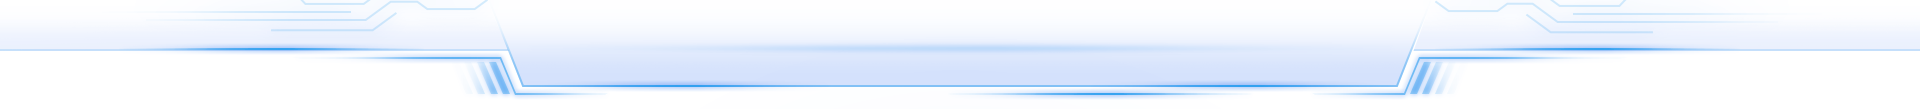
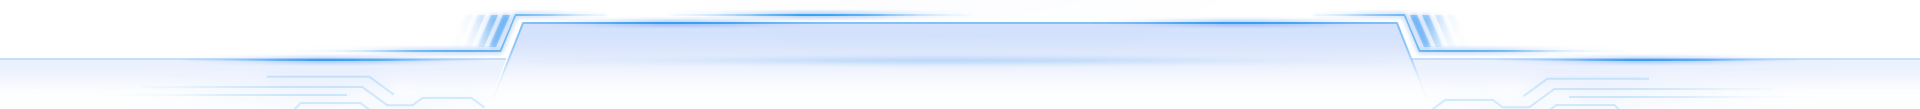
添加地球自转控件

diff --git a/src/components/Footer/index.vue b/src/components/Footer/index.vue
@@ -1,10 +1,25 @@
 <template>
-  <footer class="footer"></footer>
+  <footer class="footer">
+    <div class="btn-groups">
+      <div class="item">
+        <button class="toggle-btn" @click="handleRotation">
+          <i class="iconfont icon-fuwudiqiu"></i>
+        </button>
+        <p>{{ mark }}</p>
+      </div>
+    </div>
+  </footer>
 </template>
 
-<script setup></script>
+<script setup>
+import useRotation from './hooks/useRotation'
+
+const { mark, handleRotation } = useRotation()
+</script>
 
 <style>
+@import 'https://at.alicdn.com/t/c/font_4072822_j5r3vfaxh8h.css';
+
 .footer {
   position: fixed;
   left: 0;
@@ -14,6 +29,41 @@
   z-index: 90;
   background: url('../../assets/images/footer.png') center no-repeat;
   background-size: cover;
-  transform: rotate(180deg);
+}
+.btn-groups {
+  display: flex;
+  justify-content: center;
+  font-size: 12px;
+  color: #fff;
+}
+
+.btn-groups .item {
+  margin-left: 20px;
+  text-align: center;
+}
+
+.btn-groups button {
+  margin-bottom: 4px;
+  width: 40px;
+  height: 40px;
+  border-radius: 50%;
+  border: none;
+  outline: none;
+  color: #fff;
+  box-shadow: 0 0 5px 3px rgba(0, 0, 0, 0.3);
+  background: linear-gradient(
+    to bottom,
+    rgba(0, 128, 255, 0.377),
+    rgba(0, 128, 255, 0.281)
+  );
+}
+
+.btn-groups button:hover {
+  cursor: pointer;
+  background: linear-gradient(
+    to bottom,
+    rgba(0, 128, 255, 1),
+    rgba(0, 128, 255, 0.281)
+  );
 }
 </style>

diff --git a/src/components/Footer/hooks/useRotation.js b/src/components/Footer/hooks/useRotation.js
@@ -1,0 +1,41 @@
+import { computed, inject, ref } from 'vue'
+
+export default () => {
+  const { map } = inject('$scene_map')
+  const moving = ref(true)
+
+  const mark = computed(() => {
+    return moving.value ? '停止' : '开启'
+  })
+
+  function rotation() {
+    const zoom = map.getZoom()
+    if (zoom < 5) {
+      let center = map.getCenter()
+      center.lng += 10
+      map.easeTo({
+        center,
+        duration: 1000,
+        easing: (n) => n,
+      })
+    }
+  }
+  rotation()
+  map.on('moveend', () => {
+    moving.value && rotation()
+  })
+
+  function handleRotation() {
+    moving.value = !moving.value
+    if (!moving.value) {
+      map.stop()
+    } else {
+      rotation()
+    }
+  }
+
+  return {
+    mark,
+    handleRotation,
+  }
+}
